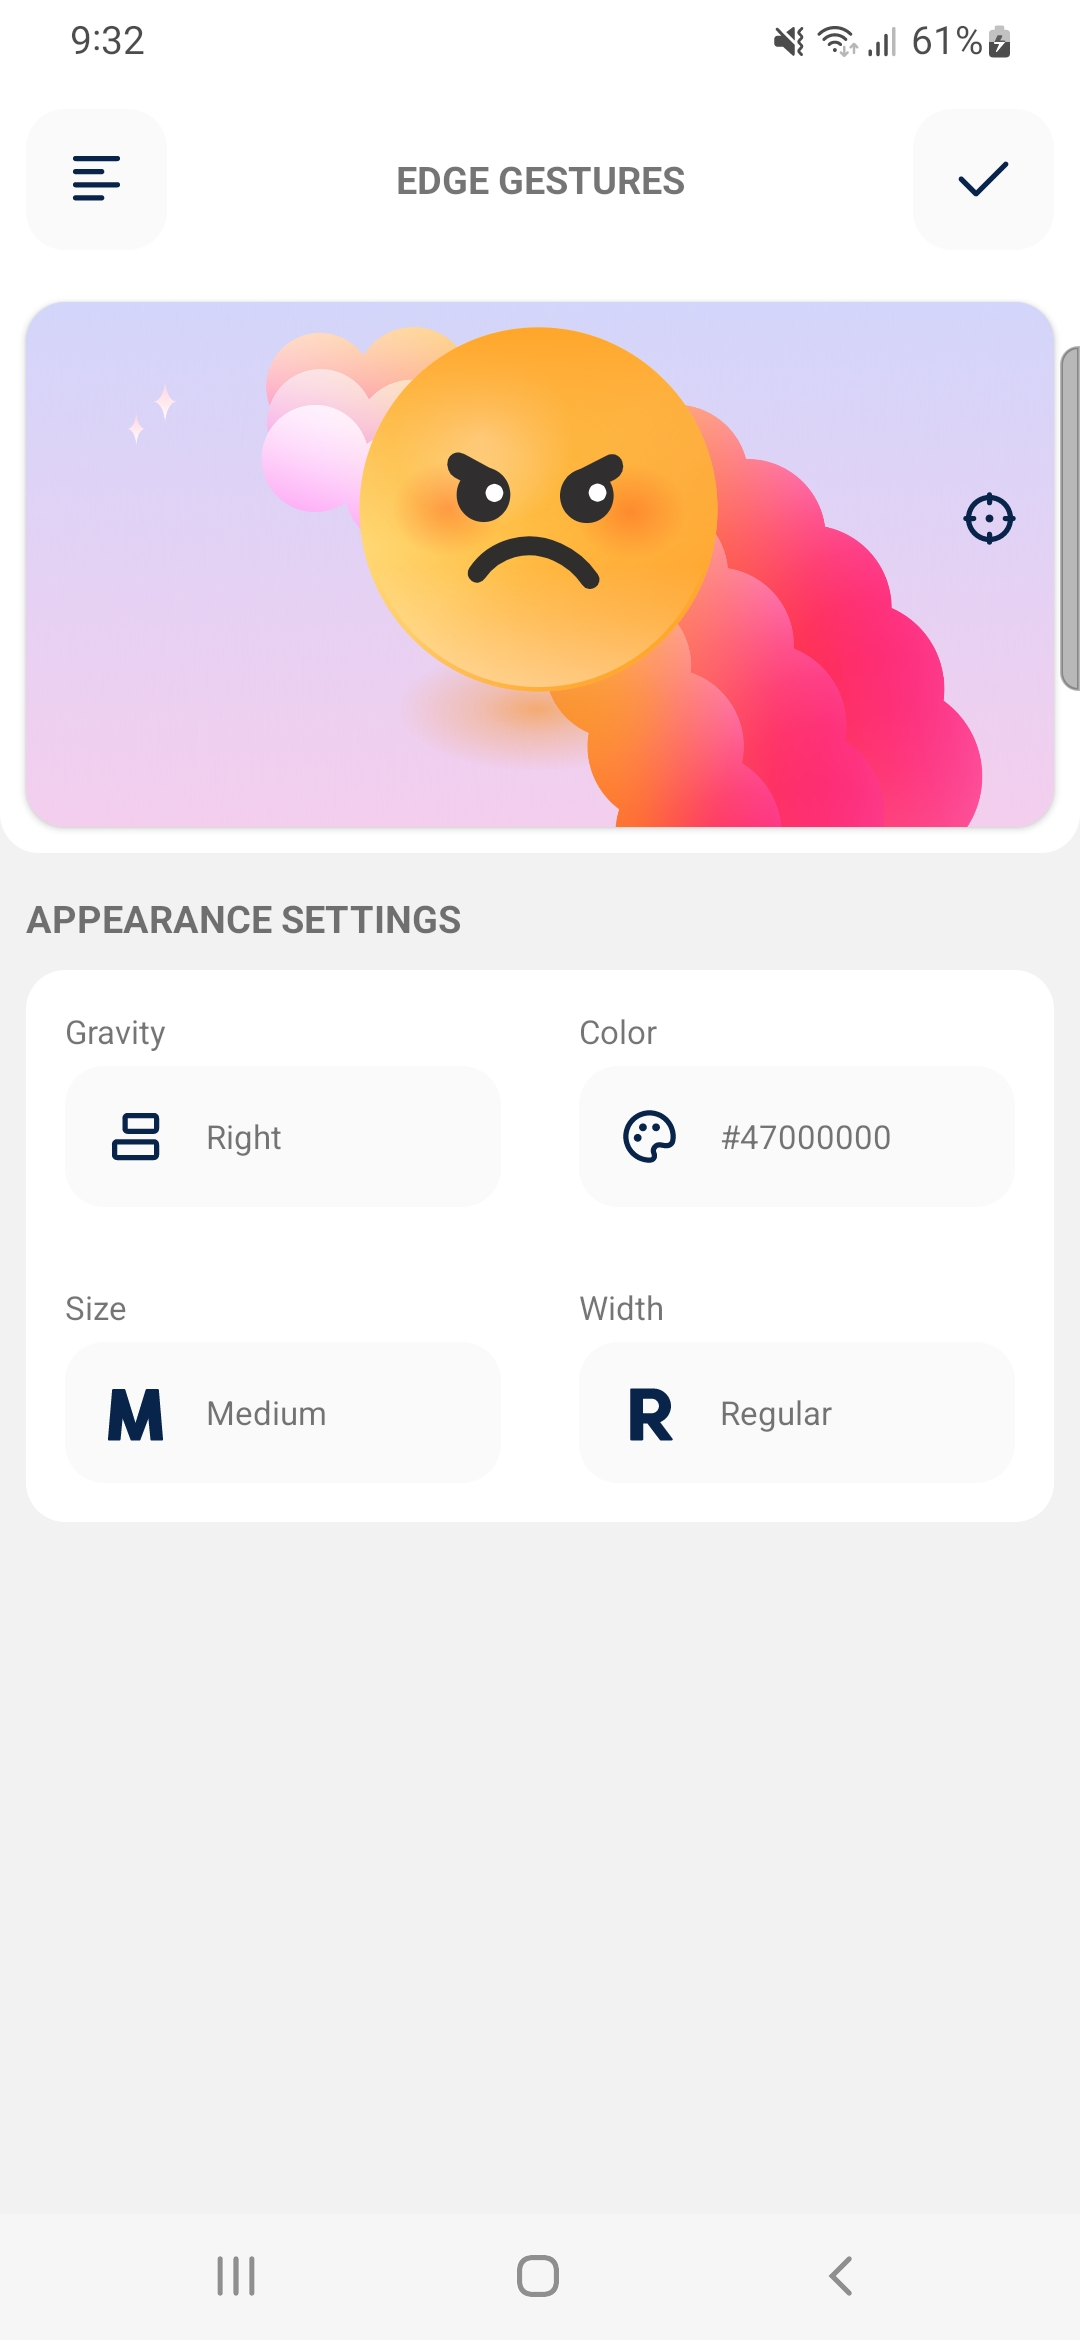
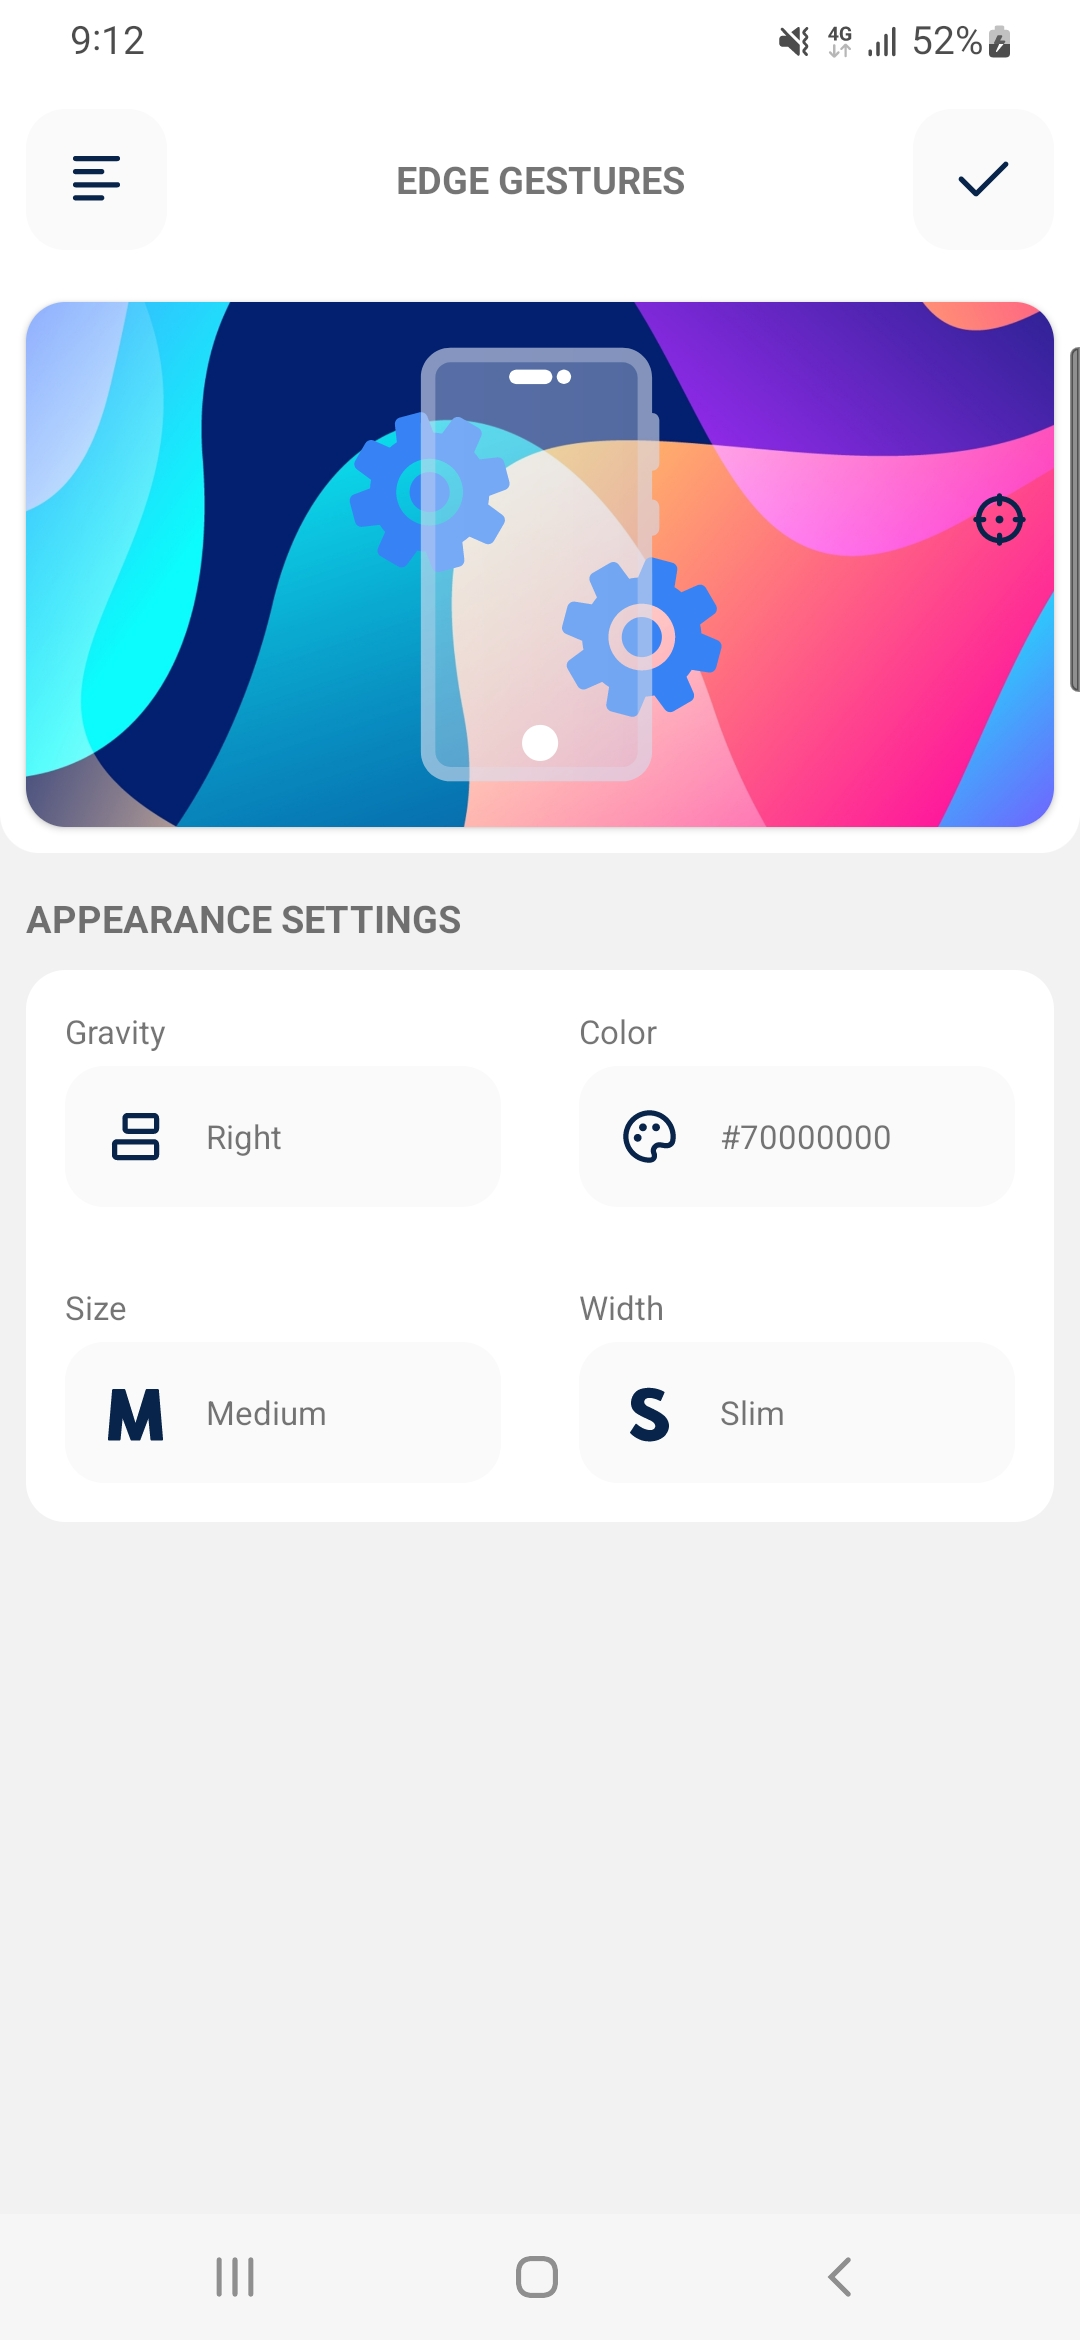
feat: readme.md file updated

diff --git a/app/src/main/java/com/newagedevs/edgegestures/overlays/OverlayService.kt b/app/src/main/java/com/newagedevs/edgegestures/overlays/OverlayService.kt
@@ -108,10 +108,14 @@ class OverlayService : Service(), OnTouchListener, View.OnClickListener {
                     }
 
                     val width: Int = when (appHandler!!.width) {
-                        "Slim" -> 30
-                        "Regular" -> 40
-                        "Bold" -> 50
-                        else -> 30
+//                        "Slim" -> 25
+//                        "Regular" -> 35
+//                        "Bold" -> 45
+//                        else -> 25
+                        "Slim" -> 10
+                        "Regular" -> 25
+                        "Bold" -> 35
+                        else -> 25
                     }
 
                     val type =

diff --git a/app/src/main/java/com/newagedevs/edgegestures/binding/ViewBinding.kt b/app/src/main/java/com/newagedevs/edgegestures/binding/ViewBinding.kt
@@ -154,10 +154,14 @@ object ViewBinding {
     fun setLayoutWidth(view: View, value: String) {
 
         val width: Int = when (value) {
-            "Slim" -> 30
-            "Regular" -> 40
-            "Bold" -> 50
-            else -> 30
+//            "Slim" -> 25
+//            "Regular" -> 35
+//            "Bold" -> 45
+//            else -> 25
+            "Slim" -> 10
+            "Regular" -> 25
+            "Bold" -> 35
+            else -> 25
         }
 
         view.layoutParams = view.layoutParams.apply {

diff --git a/README.md b/README.md
@@ -19,14 +19,10 @@ Edge Gesture Volume is a feature-rich Android application that provides intuitiv
 
 ## Screenshots
 
-|          Home          |          Menu          |          Gravity          |          Size          |
-|:----------------------:|:----------------------:|:-------------------------:|:----------------------:|
-| ![](previews/home.jpg) | ![](previews/menu.jpg) | ![](previews/gravity.jpg) | ![](previews/size.jpg) |
+|          Home          |          Menu          |         Colors          |          Volume          |
+|:----------------------:|:----------------------:|:-----------------------:|:------------------------:|
+| ![](previews/home.jpg) | ![](previews/menu.jpg) | ![](previews/color.jpg) | ![](previews/volume.jpg) |
 
-
-|          Width          |          color          |            Home Preview            |            Home Preview            |
-|:-----------------------:|:-----------------------:|:----------------------------------:|:----------------------------------:|
-| ![](previews/width.jpg) | ![](previews/color.jpg) | ![](previews/home_preview_one.jpg) | ![](previews/home_preview_one.jpg) |
 
 ## 💻 Installation steps
 
